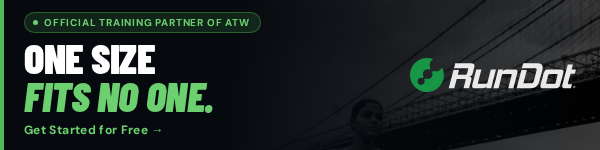
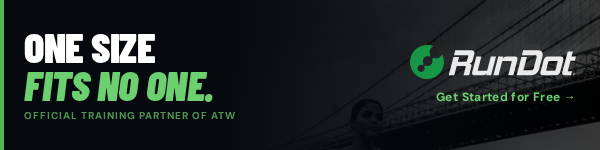
v8: partner label plain text, no pill border

Changed region(s): [[0.03, 0.08, 0.45, 0.8], [0.66, 0.2933, 0.96, 0.6933], [0.03, 0.8267, 0.27, 0.9067]]

diff --git a/atw-banners.html b/atw-banners.html
@@ -25,7 +25,6 @@ body { background: #111; padding: 12px; display: flex; flex-direction: column; g
   z-index: 4;
 }
 
-/* Left column: headline at top, then partner pill, then badge/tagline */
 .col-left {
   display: flex;
   flex-direction: column;
@@ -36,7 +35,6 @@ body { background: #111; padding: 12px; display: flex; flex-direction: column; g
   gap: 6px;
 }
 
-/* Right column: logo at top, CTA underneath */
 .col-right {
   margin-left: auto;
   display: flex;
@@ -50,43 +48,28 @@ body { background: #111; padding: 12px; display: flex; flex-direction: column; g
   gap: 10px;
 }
 
-/* Partner pill — RunDot */
-.rd-pill {
-  display: inline-flex;
-  align-items: center;
-  gap: 6px;
-  background: rgba(83,185,86,0.15);
-  border: 1px solid rgba(83,185,86,0.4);
-  border-radius: 100px;
-  padding: 3px 10px 3px 8px;
+/* Partner label — plain text, no border/pill */
+.rd-partner {
   font-family: 'DM Sans', sans-serif;
   font-size: 10px;
   font-weight: 700;
-  letter-spacing: 0.08em;
+  letter-spacing: 0.10em;
   text-transform: uppercase;
-  color: #6dd070;
-  width: fit-content;
+  color: rgba(109,208,112,0.7);
   white-space: nowrap;
 }
-.rd-pill::before {
-  content: '';
-  width: 5px; height: 5px;
-  border-radius: 50%;
-  background: #6dd070;
-  flex-shrink: 0;
-}
 
-/* Partner label — TriDot */
-.td-label {
+.td-partner {
   font-family: 'Plus Jakarta Sans', sans-serif;
   font-size: 10px;
   font-weight: 800;
   letter-spacing: 0.12em;
   text-transform: uppercase;
-  color: #EA0029;
+  color: rgba(234,0,41,0.8);
+  white-space: nowrap;
 }
 
-/* Offer badge — RunDot */
+/* Offer badge — RunDot (keeps the outline) */
 .rd-badge {
   display: inline-flex;
   align-items: center;
@@ -102,7 +85,7 @@ body { background: #111; padding: 12px; display: flex; flex-direction: column; g
   width: fit-content;
 }
 
-/* Offer badge — TriDot */
+/* Offer badge — TriDot (keeps the outline) */
 .td-badge {
   display: inline-flex;
   align-items: center;
@@ -171,7 +154,7 @@ body { background: #111; padding: 12px; display: flex; flex-direction: column; g
       <div style="font-family:'Barlow Condensed',sans-serif;font-size:38px;font-weight:900;
                   text-transform:uppercase;font-style:italic;color:#6dd070;letter-spacing:-0.01em;">RACE FASTER.</div>
     </div>
-    <div class="rd-pill">Official Training Partner of ATW</div>
+    <div class="rd-partner">Official Training Partner of ATW</div>
     <div class="rd-badge">★ ATW Registrants — 2 Months Free</div>
   </div>
   <div class="col-right">
@@ -197,7 +180,7 @@ body { background: #111; padding: 12px; display: flex; flex-direction: column; g
       <div style="font-family:'Plus Jakarta Sans',sans-serif;font-size:34px;font-weight:900;
                   font-style:italic;color:#EA0029;letter-spacing:-0.02em;">better training.</div>
     </div>
-    <div class="td-label">Official Training Partner of ATW</div>
+    <div class="td-partner">Official Training Partner of ATW</div>
     <div class="td-badge">🏊 ATW Registrants — 2 Months Free</div>
   </div>
   <div class="col-right">
@@ -223,7 +206,7 @@ body { background: #111; padding: 12px; display: flex; flex-direction: column; g
       <div style="font-family:'Barlow Condensed',sans-serif;font-size:38px;font-weight:900;
                   text-transform:uppercase;font-style:italic;color:#6dd070;letter-spacing:-0.01em;">WANT MORE.</div>
     </div>
-    <div class="rd-pill">Official Training Partner of ATW</div>
+    <div class="rd-partner">Official Training Partner of ATW</div>
     <div class="rd-tagline">Train less. Perform more. RunDot™ adapts to you.</div>
   </div>
   <div class="col-right">
@@ -233,7 +216,7 @@ body { background: #111; padding: 12px; display: flex; flex-direction: column; g
 </div>
 
 
-<!-- B6 · RunDot One Size — logo+CTA right, headline+partner left -->
+<!-- B6 · RunDot One Size -->
 <div class="banner" id="b6" style="background:#060a0f;">
   <div style="position:absolute;inset:0;z-index:0;">
     <img src="assets/RunDot-Next-Photo-3.jpg"
@@ -249,7 +232,7 @@ body { background: #111; padding: 12px; display: flex; flex-direction: column; g
       <div style="font-family:'Barlow Condensed',sans-serif;font-size:42px;font-weight:900;
                   text-transform:uppercase;font-style:italic;color:#6dd070;letter-spacing:-0.01em;">FITS NO ONE.</div>
     </div>
-    <div class="rd-pill">Official Training Partner of ATW</div>
+    <div class="rd-partner">Official Training Partner of ATW</div>
   </div>
   <div class="col-right">
     <img src="assets/rundot-logo-full.svg" style="height:34px; opacity:0.9; display:block;">
@@ -274,7 +257,7 @@ body { background: #111; padding: 12px; display: flex; flex-direction: column; g
       <div style="font-family:'Plus Jakarta Sans',sans-serif;font-size:34px;font-weight:900;
                   font-style:italic;color:#EA0029;letter-spacing:-0.02em;">better training.</div>
     </div>
-    <div class="td-label">Official Training Partner of ATW</div>
+    <div class="td-partner">Official Training Partner of ATW</div>
     <div class="td-tagline">Swim. Bike. Run. TriDot® adapts to you — every session.</div>
   </div>
   <div class="col-right">
